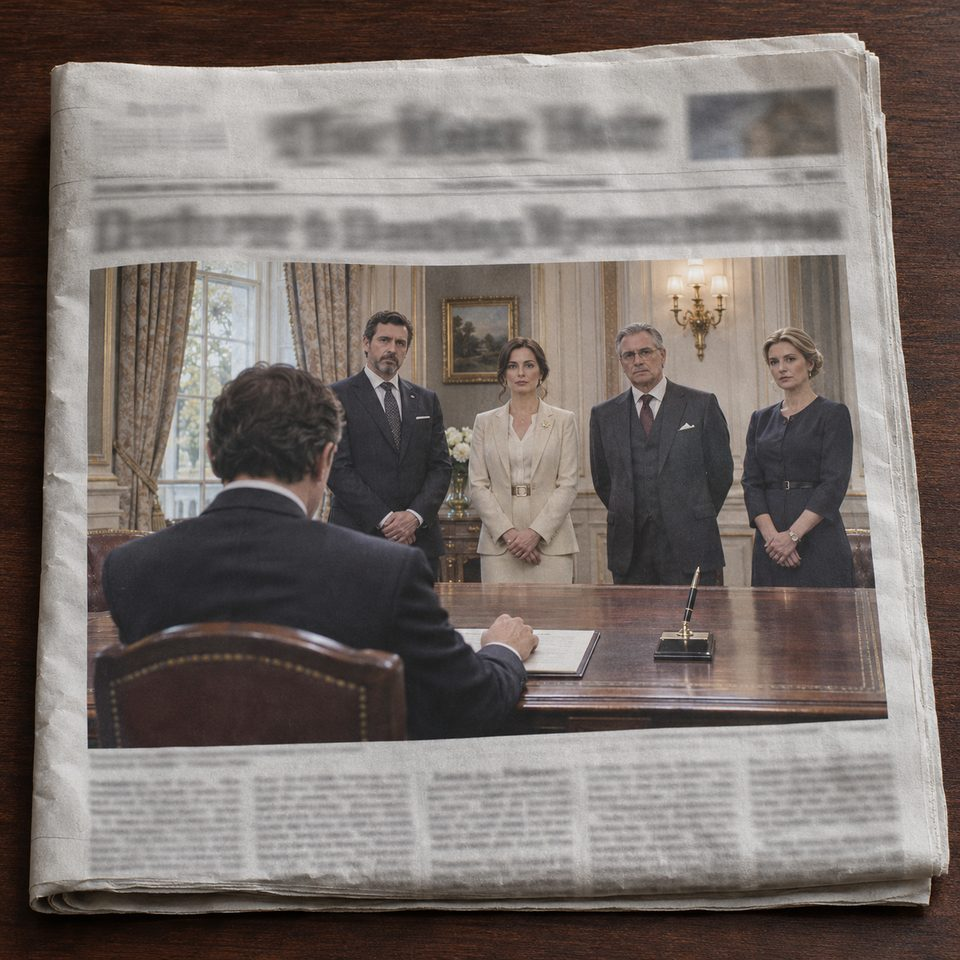
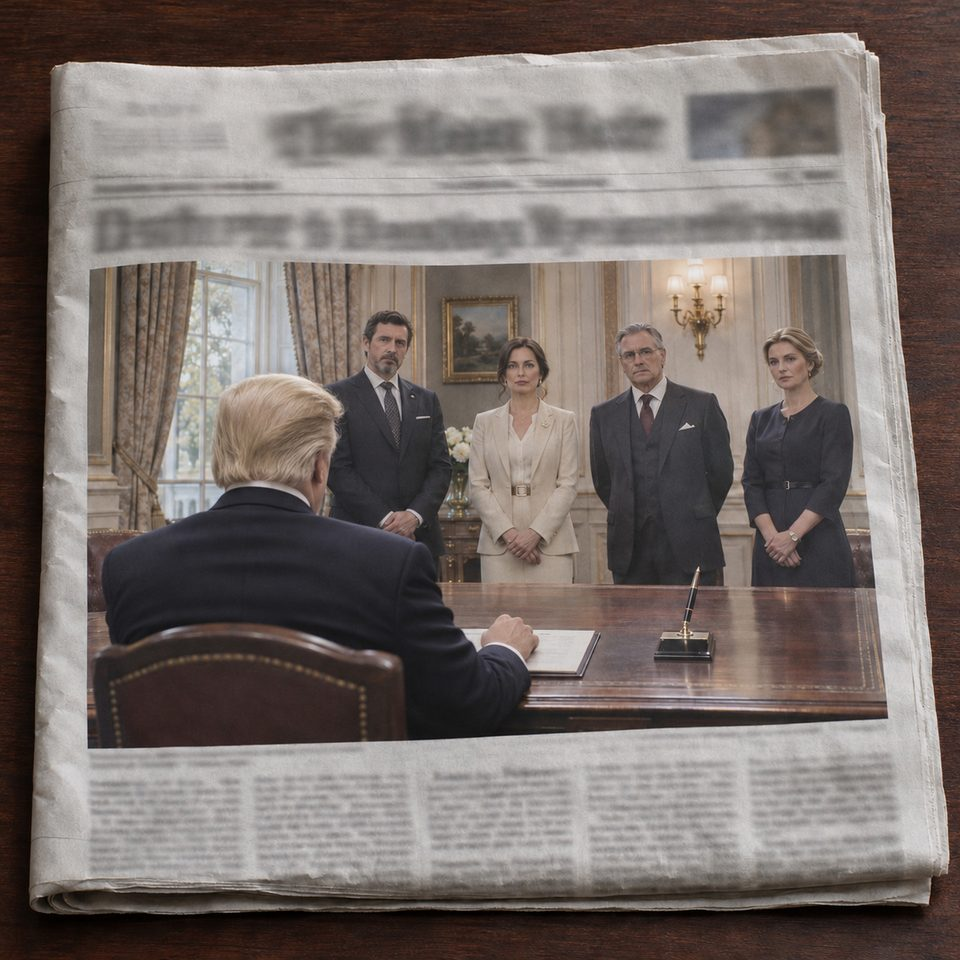
Act 5: newspaper photograph, Richard's chosen version
Claude-Session: https://claude.ai/code/session_011AqaUbLZhNpG24xiQxeqKm

diff --git a/docs/fsy/FIX-LIST.md b/docs/fsy/FIX-LIST.md
@@ -640,3 +640,9 @@ Gerry's review of the Act 5 second draft (9/10), applied to the prototype.
 | --- | --- | --- |
 | 1 | Act 5 pictures, first set (Richard): Yoel's room with the radio (scene 1), the typist's table, Avi's booth, the Quarter steps and the newspaper seller (race), the dark stair, Yoel measuring the sun on the roof; objects: radio, typist's sheet, the clocks (OURS/THEIRS added), the newspaper photograph (heading given as game text), the seal and tracing, the loose sheet. The signer in the photograph is seen from behind with nothing to identify him. | Done in v7d |
 | 2 | Still to come: the young man's portrait (stairman), the desk drawer with Haller's coin (redo), optionally the roof redo with the arm held out. | Waiting for pictures |
+
+## Next build (pending)
+
+| # | Fix | State |
+| --- | --- | --- |
+| 1 | Newspaper photograph in the Act 5 proof: Richard chose the second version (signer seen from behind, fair hair) over the first (dark hair). His decision, 20 Nov, after Claude advised the first. No face, no name. | In, waiting for the next zip |
